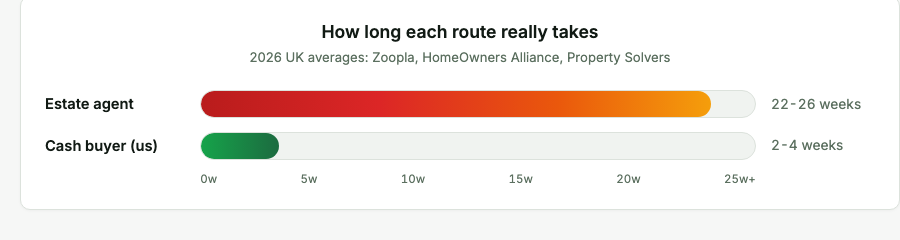
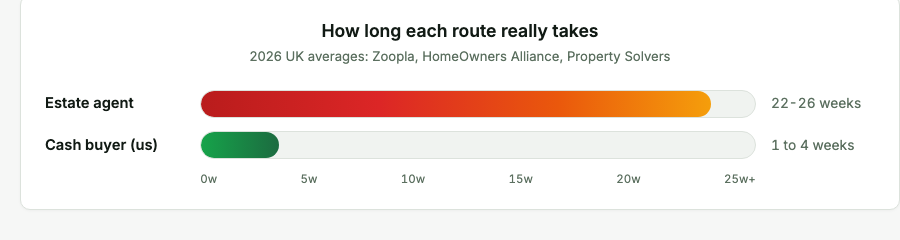
Make the homepage comparison honest and fix its claim breaches
The comparison chart concluded that we net a seller more than an estate
agent: £110,000 against £109,290. That £710 win was manufactured by the
deductions. It stacked nine months of empty-property costs, double council
tax and utilities, on top of nine months of mortgage payments, which is an
uncommon combination since empty probate properties are usually mortgage
free. Drop the mortgage line and the agent route nets about £119,000 and
beats us by nine thousand. The claim could be taken apart in one sentence,
and it was on the highest-traffic page on the site.

The chart now shows the agent route as a range, £109,290 to £120,900,
depending on whether those holding costs actually apply, and says plainly
that a mortgage-free or quick-selling house does better with an agent. That
is the argument the rest of the site already makes, and it lets a seller
place themselves rather than be told a conclusion.

The homepage had also been missed by the August guardrail pass and was the
least compliant page on the site:

- "80 to 90 percent of market value" in three places, against the approved
  80 to 85. The 80 to 90 figures in the tenanted-property and tired-landlord
  posts are left alone: those describe an open-market sale to a buy-to-let
  investor, not our offer.
- "We cover all legal costs" and "there are no conveyancing fees to pay on
  your side" in three places, against the approved conditional wording.
[…]

diff --git a/website/index.html b/website/index.html
@@ -63,7 +63,7 @@
     {
       "@type": "HowToStep",
       "name": "Review the indicative offer",
-      "text": "The calculator shows the indicative cash offer, the condition-adjusted market value, and the offer as a percentage of market value. Final offers follow a 15-minute viewing and are guaranteed for 14 days."
+      "text": "The calculator shows the indicative cash offer, the condition-adjusted market value, and the offer as a percentage of market value. Final offers follow a short viewing and are valid for 14 days."
     }
   ]
 }
@@ -352,19 +352,19 @@
 
         <div class="sypb-calc-response" data-calc-response="ok" role="region">
           <h5>Good. We can firm this up within 24-48 hours.</h5>
-          <p>The figure above is indicative, a firm written offer follows a 15-minute viewing (in person or by video) and a desktop check of comparable sales on your street. Once signed, the offer is guaranteed for 14 days, and we can cover your legal fees if you need us to. Typical completion is 2-4 weeks.</p>
+          <p>The figure above is indicative, a firm written offer follows a short viewing (in person or by video) and a desktop check of comparable sales on your street. Once signed, the offer is valid for 14 days, and we can cover your legal fees if you use our panel solicitor. Typical completion is 7 to 28 days.</p>
           <a class="cta-inline" href="/get-offer/">Get a firm offer</a>
         </div>
 
         <div class="sypb-calc-response warn" data-calc-response="lower" role="region">
           <h5>That gap is real, and so is what you get for it.</h5>
-          <p>A cash sale at our typical 80-85% of market value buys you three things the estate-agent route can't reliably deliver: <strong>certainty</strong> (no chain, no buyer pulling out), <strong>speed</strong> (2-4 weeks vs 4-6 months average), and <strong>no fees</strong> (we cover legals; estate agents take 1-2% + VAT on top). For sellers in a real time-bind: divorce, probate, mortgage arrears, job relocation: that gap is often worth less than the equivalent in stress, double mortgage payments, or a chain collapse at week ten.</p>
+          <p>A cash sale at our typical 80-85% of market value buys you three things the estate-agent route can't reliably deliver: <strong>certainty</strong> (no chain, no buyer pulling out), <strong>speed</strong> (1 to 4 weeks vs 4-6 months average), and <strong>no fees</strong> (we can cover your legals; estate agents take 1-2% + VAT on top). For sellers in a real time-bind: divorce, probate, mortgage arrears, job relocation: that gap is often worth less than the equivalent in stress, double mortgage payments, or a chain collapse at week ten.</p>
           <p>If you're not under time pressure, the estate-agent route may net you more. The honest comparison is on our <a href="/cash-buyer-vs-estate-agent/">cash buyer vs estate agent</a> page, read it before deciding.</p>
           <a class="cta-inline" href="/get-offer/">Still get a firm offer (no obligation)</a>
         </div>
       </div>
 
-      <p class="sypb-calc-note">For illustration only. Final offers depend on a desktop check of comparable sales, a 15-minute viewing, and any title or structural issues found during conveyancing. Our offers typically land at 80-85% of open market value, see <a href="/blog/how-much-do-cash-buyers-offer-below-market-value/">how cash buyer pricing works</a>.</p>
+      <p class="sypb-calc-note">For illustration only. Final offers depend on a desktop check of comparable sales, a short viewing, and any title or structural issues found during conveyancing. Our offers typically land at 80-85% of open market value, see <a href="/blog/how-much-do-cash-buyers-offer-below-market-value/">how cash buyer pricing works</a>.</p>
     </section>
   </div>
 </section>
@@ -443,9 +443,9 @@
 <section class="compare-section" id="compare">
   <div class="section-inner">
     <div class="section-header reveal">
-      <span class="section-label">The Real Numbers</span>
-      <h2 class="section-title">See the difference for yourself</h2>
-      <p class="section-sub">On a £130,000 property sitting empty, here is what you actually walk away with after all the costs of a traditional sale are accounted for.</p>
+      <span class="section-label">The Honest Comparison</span>
+      <h2 class="section-title">What each route actually costs you</h2>
+      <p class="section-sub">An example on a £130,000 property. The estate agent route lands somewhere in a range, depending on how long it takes to sell and what the property costs you to hold while you wait.</p>
     </div>
 
     <figure class="sypb-route-bars reveal" aria-label="Estate agent vs cash buyer timeline comparison" style="max-width:880px;margin:0 auto 2rem;">
@@ -462,7 +462,7 @@
         <div class="route-bar">
           <span class="route-name">Cash buyer (us)</span>
           <div class="route-track"><div class="route-fill route-fill--sypb" style="--w:14%"></div></div>
-          <span class="route-time">2-4 weeks</span>
+          <span class="route-time">1 to 4 weeks</span>
         </div>
       </div>
       <div class="route-axis" aria-hidden="true">
@@ -496,33 +496,24 @@
             <td class="our-col"><strong>£110,000</strong></td>
           </tr>
           <tr>
-            <td>After agent fees (2.5%)</td>
-            <td><strong>£120,900</strong></td>
-            <td class="our-col"><strong>£110,000</strong></td>
+            <td>Agent fees (2.5%)</td>
+            <td><strong>less £3,100</strong></td>
+            <td class="our-col"><strong>None</strong></td>
           </tr>
           <tr>
-            <td>After utility bills (9 months empty)</td>
-            <td><strong>£119,100</strong></td>
-            <td class="our-col"><strong>£110,000</strong></td>
-          </tr>
-          <tr>
-            <td>After double council tax (empty property, 9 months)</td>
-            <td><strong>£116,490</strong></td>
-            <td class="our-col"><strong>£110,000</strong></td>
-          </tr>
-          <tr>
-            <td>After mortgage payments (9 months)</td>
-            <td><strong>£109,290</strong></td>
-            <td class="our-col"><strong>£110,000</strong></td>
+            <td>Cost of holding it while it sells: bills, council tax and any mortgage</td>
+            <td><strong>Nothing, up to £11,610</strong></td>
+            <td class="our-col"><strong>None</strong></td>
           </tr>
           <tr class="final-row">
-            <td><strong>Final amount you receive</strong></td>
-            <td><strong>£109,290</strong></td>
+            <td><strong>What reaches you</strong></td>
+            <td><strong>£109,290 to £120,900</strong></td>
             <td class="our-col"><strong>£110,000</strong></td>
           </tr>
         </tbody>
       </table>
     </div>
+    <p class="section-sub" style="max-width:780px;margin:1.75rem auto 0;text-align:left;">Those holding costs only count if they apply to you. An empty property with a mortgage still running for nine months is the expensive end of that range. A house that is mortgage free, or that sells quickly, costs far less to wait on, and then the estate agent route pays you more than we do. If that is your situation, we will tell you. We are worth talking to when a property is hard to sell, when holding on to it is costing you money every month, or when you need a completion date you can actually rely on.</p>
     <div class="compare-cta reveal">
       <p>Ready to find out what we would pay for your property?</p>
       <a href="/get-offer/" class="btn-primary">Get My Free Cash Offer</a>
@@ -552,8 +543,8 @@
         <h2 class="section-title">South Yorkshire's local property buyers.</h2>
         <p>We are a small, experienced team of property investors based right here in South Yorkshire. We are not a national call centre. When you contact us, you speak directly with the <span class="kw">decision-maker</span>, with no middlemen and no waiting on approvals from head office.</p>
         <p>We have been buying residential and commercial property across <span class="kw">Sheffield, Rotherham, Doncaster, Barnsley</span>, and the surrounding areas for years. We know this market, we know the local solicitors, and we know how to move quickly when it matters.</p>
-        <p>We pay a fair cash price, typically <span class="kw">80 to 90 % of market value</span>, in exchange for speed, certainty, and zero hassle. For many people in difficult circumstances, that trade-off is absolutely worth it, and we will always be honest with you about what to expect.</p>
-        <p>We <span class="kw">cover all legal costs</span>. We work with our own panel of solicitors who know exactly how we operate, which keeps things moving quickly. There are no conveyancing fees to pay on your side. The price we agree is the price you receive.</p>
+        <p>We pay a fair cash price, typically <span class="kw">80 to 85 percent of market value</span>, in exchange for speed, certainty, and zero hassle. For many people in difficult circumstances, that trade-off is absolutely worth it, and we will always be honest with you about what to expect.</p>
+        <p>We <span class="kw">can cover your legal fees</span> if you use our panel solicitor, who knows exactly how we work, which keeps things moving quickly. You are free to use your own solicitor instead, and that is often worth doing, in which case their bill is yours. Either way, we charge you nothing.</p>
         <div class="about-stats">
           <div>
             <div class="stat-val" data-count="100" data-suffix="+"><span class="count-num">100</span><span>+</span></div>
@@ -775,7 +766,7 @@
           How much below market value will you offer?
           <svg class="faq-chevron" viewBox="0 0 24 24" fill="none" stroke="currentColor" stroke-width="2" stroke-linecap="round" stroke-linejoin="round"><polyline points="6 9 12 15 18 9"/></svg>
         </div>
-        <div class="faq-a"><p>We typically offer between 80-90% of market value in exchange for speed, certainty, and zero fees. On a £130,000 property, once you factor in 9 months of mortgage payments, council tax, utilities and estate agent fees, many sellers walk away with more by selling to us. See our comparison table above for the real numbers.</p></div>
+        <div class="faq-a"><p>Our cash offers are typically 80 to 85 percent of market value. That is the trade for speed and certainty, and we will tell you plainly when it is not the right trade for you. If your property is straightforward, mortgage free and easy to sell, an estate agent will usually get you more, and you should use one. We are worth it when a property is hard to sell, when holding it is costing you money, or when you need a completion date you can rely on.</p></div>
       </div>
 
       <div class="faq-item">
@@ -783,7 +774,7 @@
           How quickly can you complete?
           <svg class="faq-chevron" viewBox="0 0 24 24" fill="none" stroke="currentColor" stroke-width="2" stroke-linecap="round" stroke-linejoin="round"><polyline points="6 9 12 15 18 9"/></svg>
         </div>
-        <div class="faq-a"><p>Our fastest completion was 7 days. Most sales complete within 2-4 weeks depending on solicitor availability and your circumstances. If you have a repossession date or any other deadline, tell us upfront and we will do everything we can to work around it.</p></div>
+        <div class="faq-a"><p>Our fastest completion was 7 days. Most sales complete in 7 to 28 days depending on solicitor availability and your circumstances. If you have a repossession date or any other deadline, tell us upfront and we will do everything we can to work around it.</p></div>
       </div>
 
       <div class="faq-item">
@@ -799,7 +790,7 @@
           Are there any fees or hidden costs?
           <svg class="faq-chevron" viewBox="0 0 24 24" fill="none" stroke="currentColor" stroke-width="2" stroke-linecap="round" stroke-linejoin="round"><polyline points="6 9 12 15 18 9"/></svg>
         </div>
-        <div class="faq-a"><p>None whatsoever. No estate agent fees, no survey costs, no conveyancing fees. We cover all legal costs. The price we agree is the price you receive. No last-minute reductions, no surprises at completion.</p></div>
+        <div class="faq-a"><p>No fees from us. There are no estate agent fees and no survey costs, and we can cover your legal fees if you use our panel solicitor. The figure we agree is what reaches you on completion. The one thing that can move it is something material the legal checks turn up, such as a title problem, and we would sit down and explain that rather than spring it on you the day before.</p></div>
       </div>
 
       <div class="faq-item">
@@ -1027,7 +1018,7 @@
       "name": "How much below market value will you offer?",
       "acceptedAnswer": {
         "@type": "Answer",
-        "text": "We typically offer between 80-90% of market value in exchange for speed, certainty, and zero fees. On a £130,000 property, once you factor in 9 months of mortgage payments, council tax, utilities and estate agent fees, many sellers walk away with more by selling to us."
+        "text": "Our cash offers are typically 80 to 85 percent of market value. That is the trade for speed and certainty, and we will tell you plainly when it is not the right trade for you. If your property is straightforward, mortgage free and easy to sell, an estate agent will usually get you more, and you should use one. We are worth it when a property is hard to sell, when holding it is costing you money, or when you need a completion date you can rely on."
       }
     },
     {
@@ -1035,7 +1026,7 @@
       "name": "How quickly can you complete?",
       "acceptedAnswer": {
         "@type": "Answer",
-        "text": "Our fastest completion was 7 days. Most sales complete within 2-4 weeks depending on solicitor availability and your circumstances. If you have a deadline such as a repossession date, tell us upfront and we will do everything we can to work around it."
+        "text": "Our fastest completion was 7 days. Most sales complete in 7 to 28 days depending on solicitor availability and your circumstances. If you have a deadline such as a repossession date, tell us upfront and we will do everything we can to work around it."
       }
     },
     {
@@ -1051,7 +1042,7 @@
       "name": "Are there any fees or hidden costs?",
       "acceptedAnswer": {
         "@type": "Answer",
-        "text": "None. No estate agent fees, no survey costs, no conveyancing fees. We cover all legal costs. The price we agree is the price you receive. No last-minute reductions, no surprises at completion."
+        "text": "No fees from us. There are no estate agent fees and no survey costs, and we can cover your legal fees if you use our panel solicitor. The figure we agree is what reaches you on completion. The one thing that can move it is something material the legal checks turn up, such as a title problem, and we would sit down and explain that rather than spring it on you the day before."
       }
     },
     {
